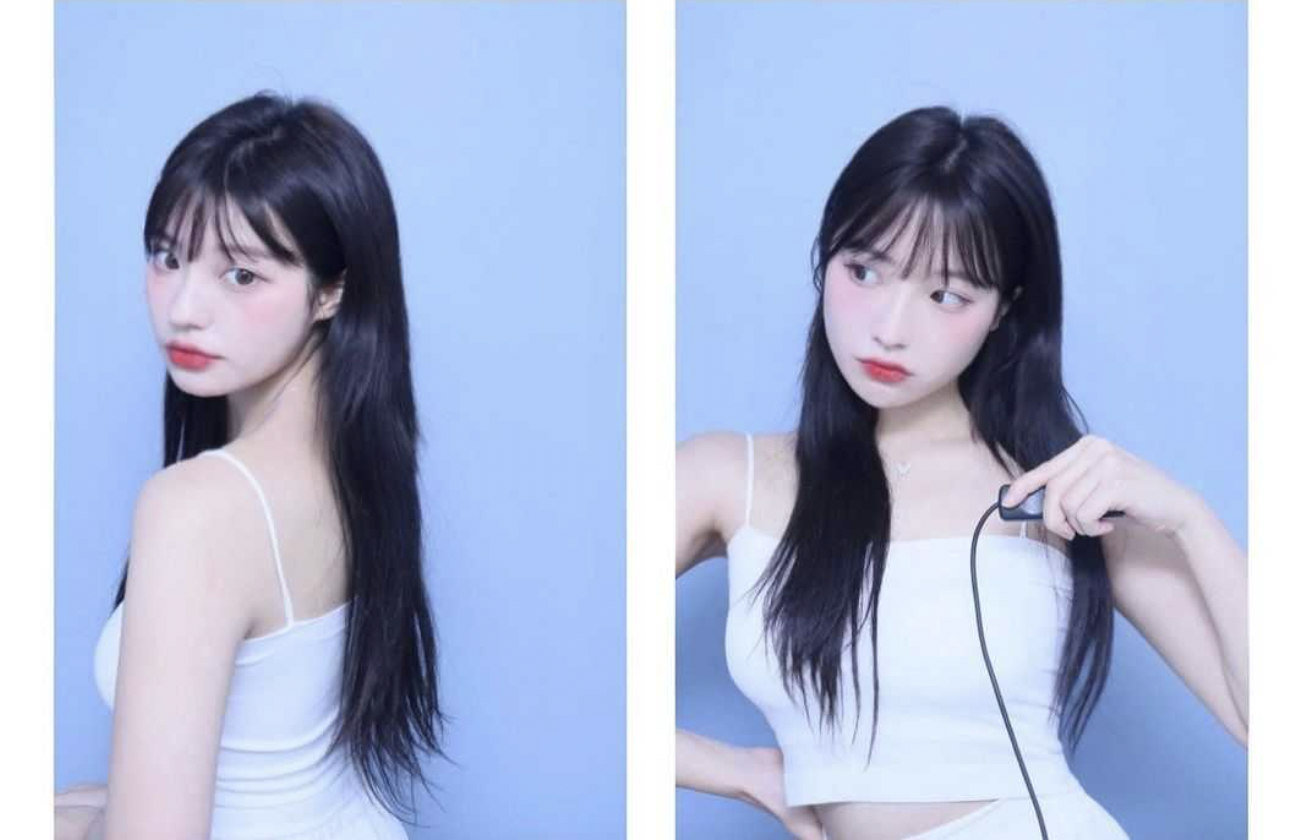
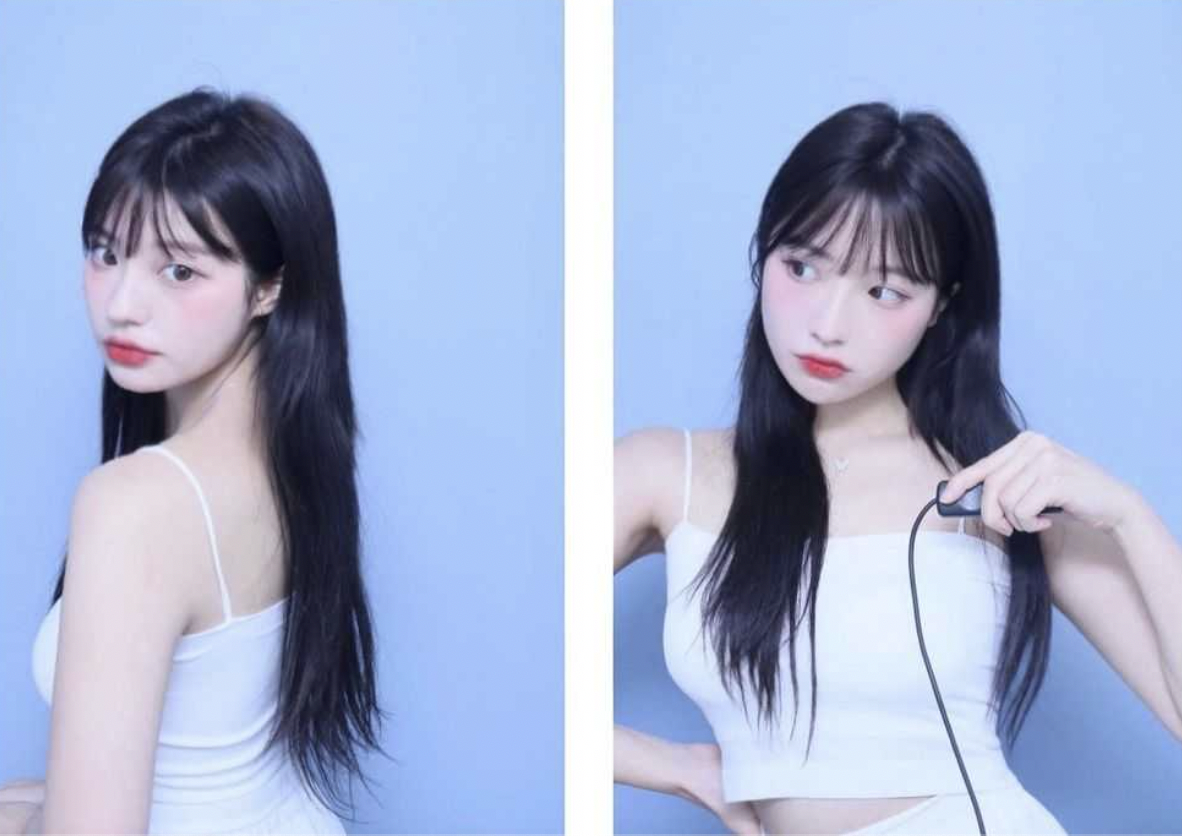
[Tab2_Main] polaroid + photo UI 개발

diff --git a/src/screens/tab2/Main.tsx b/src/screens/tab2/Main.tsx
@@ -9,45 +9,55 @@ import {
   SafeAreaView,
   ImageBackground,
   Dimensions,
+  TouchableOpacity,
 } from 'react-native';
+import FastImage from 'react-native-fast-image';
 
 // custom component
 import ScrollHeader from './components/ScrollHeader';
 import EmptyDataScreen from './container/EmptyDataScreen';
 import AddContentButton from './components/AddContentButton';
 import FlatListRenderItem from './components/FlatListRenderItem';
+import PhotoModal from './components/PhotoModal';
 
 // image
 const backgroundImg = '../../assets/images/background/tab2_main_bg.jpg';
 
-const polaroid1 = require('../../assets/images/polaroid/black_1_1.png');
-
 // variable
 const HEADER_HEIGHT = 60;
 const deviceWidth = Dimensions.get('window').width;
-const dataSource = [
-  {id: 1, title: 'Button'},
-  {id: 2, title: 'Card'},
-  {id: 3, title: 'Input'},
-  {id: 4, title: 'Avatar'},
-  {id: 5, title: 'CheckBox'},
-  {id: 6, title: 'Header'},
-  {id: 7, title: 'Icon'},
-  {id: 8, title: 'Lists'},
-  {id: 9, title: 'Rating'},
-  {id: 10, title: 'Pricing'},
-  {id: 11, title: 'Avatar'},
-  {id: 12, title: 'CheckBox'},
-  {id: 13, title: 'Header'},
-  {id: 14, title: 'Icon'},
-  {id: 15, title: 'Lists'},
-  {id: 16, title: 'Rating'},
-  {id: 17, title: 'Pricing'},
-  {id: 18, title: 'Icon'},
-  {id: 19, title: 'Lists'},
-  {id: 26, title: 'Rating'},
-  {id: 27, title: 'Pricing'},
+import {polaroid_gray, polaroid_black} from '../../constants/Constant';
+const photoData = [
+  {uri: require('../../assets/images/user/image1.png')},
+  {uri: require('../../assets/images/user/image2.png')},
+  {uri: require('../../assets/images/user/image3.png')},
+  {uri: require('../../assets/images/user/image4.png')},
+  {uri: require('../../assets/images/user/image5.png')},
+  {uri: require('../../assets/images/user/image1.png')},
+  {uri: require('../../assets/images/user/image2.png')},
+  {uri: require('../../assets/images/user/image3.png')},
+  {uri: require('../../assets/images/user/image4.png')},
+  {uri: require('../../assets/images/user/image5.png')},
+  {uri: require('../../assets/images/user/image1.png')},
+  {uri: require('../../assets/images/user/image2.png')},
+  {uri: require('../../assets/images/user/image3.png')},
+  {uri: require('../../assets/images/user/image4.png')},
+  {uri: require('../../assets/images/user/image3.png')},
+  {uri: require('../../assets/images/user/image4.png')},
+  {uri: require('../../assets/images/user/image5.png')},
+  {uri: require('../../assets/images/user/image1.png')},
+  {uri: require('../../assets/images/user/image2.png')},
+  {uri: require('../../assets/images/user/image3.png')},
+  {uri: require('../../assets/images/user/image4.png')},
+  {uri: require('../../assets/images/user/image3.png')},
+  {uri: require('../../assets/images/user/image4.png')},
+  {uri: require('../../assets/images/user/image5.png')},
 ];
+
+// 폴라로이드 랜덤 정렬
+const polaroidArr = photoData.map(() => {
+  return Math.floor(Math.random() * 12);
+});
 
 function Main() {
   // header scroll
@@ -78,12 +88,16 @@ function Main() {
   const [sequence, setSequence] = useState<string>();
   const [bgColor, setBgColor] = useState<string>();
 
+  const [isModal, setIsModal] = useState(false);
+  const [modalImgUrl, setModalImgUrl] = useState(false);
+  const polaroidWidth = (deviceWidth - flatListPadding * 2) / grid;
+
   // [tool] 상/하위 값 전달 F
   const gridPress = value => setGrid(value);
   const sequencePress = value => setSequence(value);
   const bgColorPress = value => setBgColor(value);
 
-  // 초기 async 값 받아옴
+  // 초기 async 값
   const initToolValue = value => {
     setGrid(value.grid);
     setSequence(value.sequence);
@@ -109,22 +123,51 @@ function Main() {
     );
   };
 
-  const RenderItem = item => {
+  const RenderItem = ({item, index}) => {
     return (
       <>
-        <ImageBackground
+        <FastImage
           resizeMode="contain"
-          source={polaroid1}
-          style={{
-            justifyContent: 'center',
-            width: (deviceWidth - flatListMargin * 2) / grid,
-            height: ((deviceWidth - flatListMargin * 2) / grid) * 1.2,
-            marginBottom: item.index === dataSource.length - 1 && 60,
-          }}
-        />
+          source={
+            bgColor === '#111'
+              ? polaroid_black[polaroidArr[index]].uri
+              : polaroid_gray[polaroidArr[index]].uri
+          }
+          style={[
+            renderItem.container,
+            {
+              width: polaroidWidth,
+              height: polaroidWidth * 1.18,
+              marginBottom: index === photoData.length - 1 && 100,
+            },
+          ]}>
+          <TouchableOpacity
+            style={{
+              marginTop: -(polaroidWidth * 0.14),
+              marginLeft: -3,
+              width: polaroidWidth * 0.55,
+              height: polaroidWidth * 0.5,
+            }}
+            onPress={() => {
+              setIsModal(true);
+              setModalImgUrl(item.imageuri);
+              console.log(photoData);
+              console.log(index);
+            }}>
+            <FastImage
+              resizeMode="contain"
+              source={photoData[index].uri}
+              style={renderItem.photo}
+            />
+          </TouchableOpacity>
+        </FastImage>
       </>
     );
   };
+
+  useEffect(() => {
+    if (isModal) setIsModal(false);
+  }, [isModal]);
 
   //
   //
@@ -152,7 +195,7 @@ function Main() {
           style={styles.flatList}
           windowSize={15}
           bounces={false}
-          data={dataSource}
+          data={photoData}
           initialNumToRender={15}
           renderItem={RenderItem}
           keyExtractor={(item, index) => index.toString()}
@@ -168,6 +211,8 @@ function Main() {
             {useNativeDriver: true},
           )}
         />
+        <PhotoModal isModal={isModal} modalImgUrl={modalImgUrl} />
+
         {/* <View style={{width: '100%', height: 200, backgroundColor: 'green'}} /> */}
 
         {/*======================= Footer =======================*/}
@@ -180,15 +225,16 @@ function Main() {
 // export default React.memo(Main);
 export default Main;
 
-const flatListMargin = 15;
+const flatListPadding = 15;
 
 const styles = StyleSheet.create({
   container: {
-    flex: 1,
+    width: '100%',
+    height: '100%',
     paddingTop: 7,
   },
   safeAreaViewContainer: {
-    // flex: 1,
+    flex: 1,
   },
   header: {
     position: 'absolute',
@@ -199,10 +245,18 @@ const styles = StyleSheet.create({
     zIndex: 999,
   },
   flatList: {
-    // flexGrow: 1,
-    // width: '100%',
     paddingTop: HEADER_HEIGHT,
-    marginLeft: flatListMargin,
-    marginRight: flatListMargin,
+    paddingLeft: flatListPadding,
+    paddingRight: flatListPadding,
+  },
+});
+
+const renderItem = StyleSheet.create({
+  container: {
+    alignItems: 'center',
+    justifyContent: 'center',
+  },
+  photo: {
+    flex: 1,
   },
 });

diff --git a/src/constants/Constant.tsx b/src/constants/Constant.tsx
@@ -1,3 +1,81 @@
 import React from 'react';
 
 export const main_color = '#';
+
+export const polaroid_gray = [
+  {
+    uri: require('../assets/images/polaroid/gray_1_1.png'),
+  },
+  {
+    uri: require('../assets/images/polaroid/gray_1_2.png'),
+  },
+  {
+    uri: require('../assets/images/polaroid/gray_1_3.png'),
+  },
+  {
+    uri: require('../assets/images/polaroid/gray_1_4.png'),
+  },
+  {
+    uri: require('../assets/images/polaroid/gray_2_1.png'),
+  },
+  {
+    uri: require('../assets/images/polaroid/gray_2_2.png'),
+  },
+  {
+    uri: require('../assets/images/polaroid/gray_2_3.png'),
+  },
+  {
+    uri: require('../assets/images/polaroid/gray_2_4.png'),
+  },
+  {
+    uri: require('../assets/images/polaroid/gray_3_1.png'),
+  },
+  {
+    uri: require('../assets/images/polaroid/gray_3_2.png'),
+  },
+  {
+    uri: require('../assets/images/polaroid/gray_3_3.png'),
+  },
+  {
+    uri: require('../assets/images/polaroid/gray_3_4.png'),
+  },
+];
+
+export const polaroid_black = [
+  {
+    uri: require('../assets/images/polaroid/black_1_1.png'),
+  },
+  {
+    uri: require('../assets/images/polaroid/black_1_2.png'),
+  },
+  {
+    uri: require('../assets/images/polaroid/black_1_3.png'),
+  },
+  {
+    uri: require('../assets/images/polaroid/black_1_4.png'),
+  },
+  {
+    uri: require('../assets/images/polaroid/black_2_1.png'),
+  },
+  {
+    uri: require('../assets/images/polaroid/black_2_2.png'),
+  },
+  {
+    uri: require('../assets/images/polaroid/black_2_3.png'),
+  },
+  {
+    uri: require('../assets/images/polaroid/black_2_4.png'),
+  },
+  {
+    uri: require('../assets/images/polaroid/black_3_1.png'),
+  },
+  {
+    uri: require('../assets/images/polaroid/black_3_2.png'),
+  },
+  {
+    uri: require('../assets/images/polaroid/black_3_3.png'),
+  },
+  {
+    uri: require('../assets/images/polaroid/black_3_4.png'),
+  },
+];

diff --git a/src/screens/tab2/components/ScrollHeader.tsx b/src/screens/tab2/components/ScrollHeader.tsx
@@ -147,7 +147,7 @@ function Header({
 
 export default Header;
 
-const containerPadding = 20;
+const containerPadding = 25;
 const toolPadding = 6;
 const toolsmarginTop = 4;
 const toolMarginRight = 13;
@@ -156,7 +156,7 @@ const styles = StyleSheet.create({
   container: {
     width: '100%',
     height: '100%',
-    paddingTop: 5,
+    paddingTop: 0,
     paddingLeft: containerPadding,
     paddingRight: containerPadding,
     flexDirection: 'row',
@@ -206,7 +206,7 @@ const styles = StyleSheet.create({
   },
   rowOptions: {
     padding: toolPadding,
-    paddingTop: 6,
+    paddingTop: 8,
     marginTop: toolsmarginTop,
     marginRight: toolMarginRight,
     flexDirection: 'row',

diff --git a/App.js b/App.js
@@ -33,7 +33,7 @@ function App() {
 
   return (
     <NavigationContainer>
-      {/* {!isLogin ? <SignInScreen isLoginF={isLoginF} /> : <RootScreen />} */}
+      {!isLogin ? <SignInScreen isLoginF={isLoginF} /> : <RootScreen />}
       {/* {!isLogin ? (
         <SignInScreen isLoginF={isLoginF} />
       ) : isSplashScreen ? (
@@ -41,7 +41,7 @@ function App() {
       ) : (
         <RootScreen />
       )} */}
-      <RootScreen />
+      {/* <RootScreen /> */}
     </NavigationContainer>
   );
 }

diff --git a/src/screens/tab2/container/AddPhotoScreen.tsx b/src/screens/tab2/container/AddPhotoScreen.tsx
@@ -212,6 +212,6 @@ const area = StyleSheet.create({
     borderRadius: 10,
   },
   bottomSection: {
-    flex: 1.2,
+    flex: 1.5,
   },
 });
